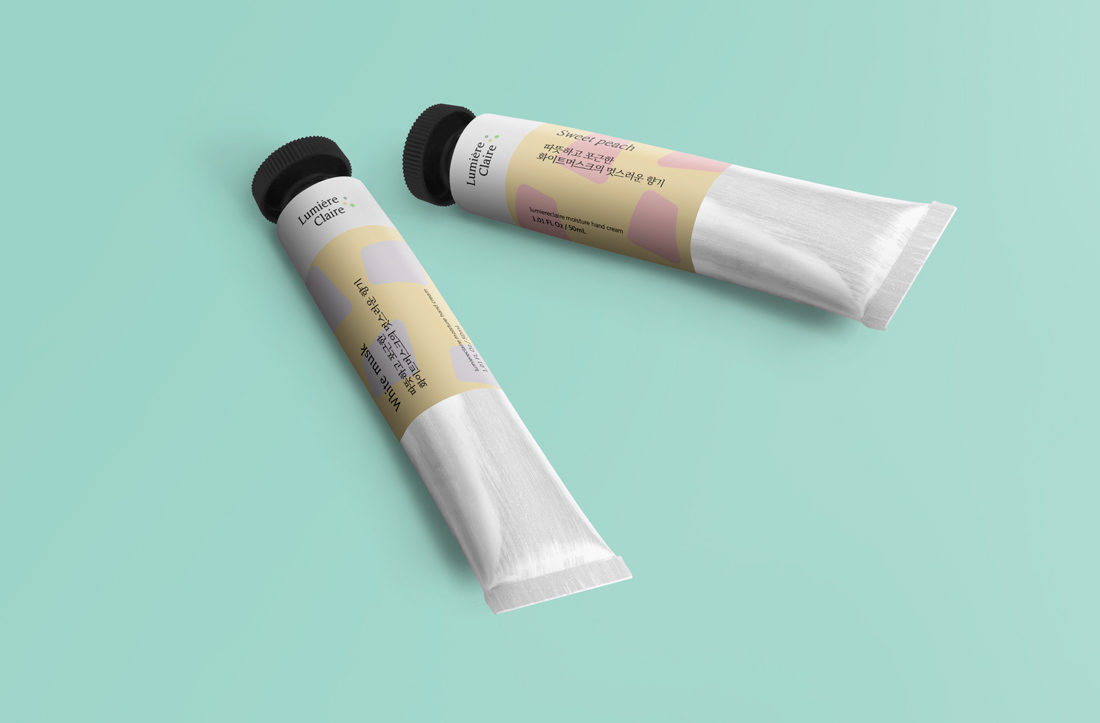
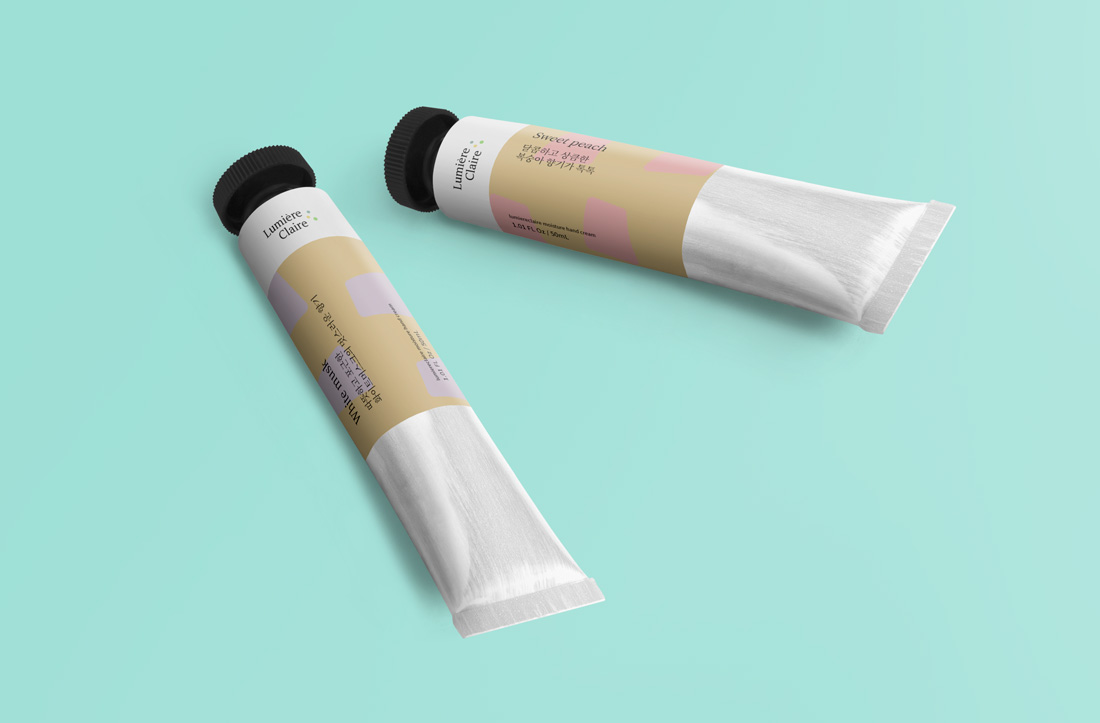
summary

Changed region(s): [[0.1855, 0.1217, 0.7418, 0.8824], [0.7418, 0.426, 0.7727, 0.4564]]

diff --git a/index.html b/index.html
@@ -611,7 +611,7 @@
                         <div class="modal-body">
                             <h2>lumiere hand cream</h2>
                             <hr class="star-primary">
-                            <img src="img/portfolio/lu_h.jpg" class="img-responsive img-centered" alt="">
+                            <img src="img/portfolio/lu_h_inner.jpg" class="img-responsive img-centered" alt="">
                             <p>카페24 쇼핑몰로 만든 뤼미에르 클레흐 핸드크림 디자인 목업입니다.<br><br><strong>스킨케어 브랜드 '뤼미에르 클레흐'의 핸드크림을 디자인 제작했습니다.
                             밝은 갈색 톤의 종이를 감싼 느낌으로 그 위로 불규칙한 둥근사각형 모양의 패턴을 얹어 시각적 효과를 높였습니다. 핸드크림 향에 맞춰 패턴 색상이 달라지도록 제작했습니다.</strong></p>
                           
